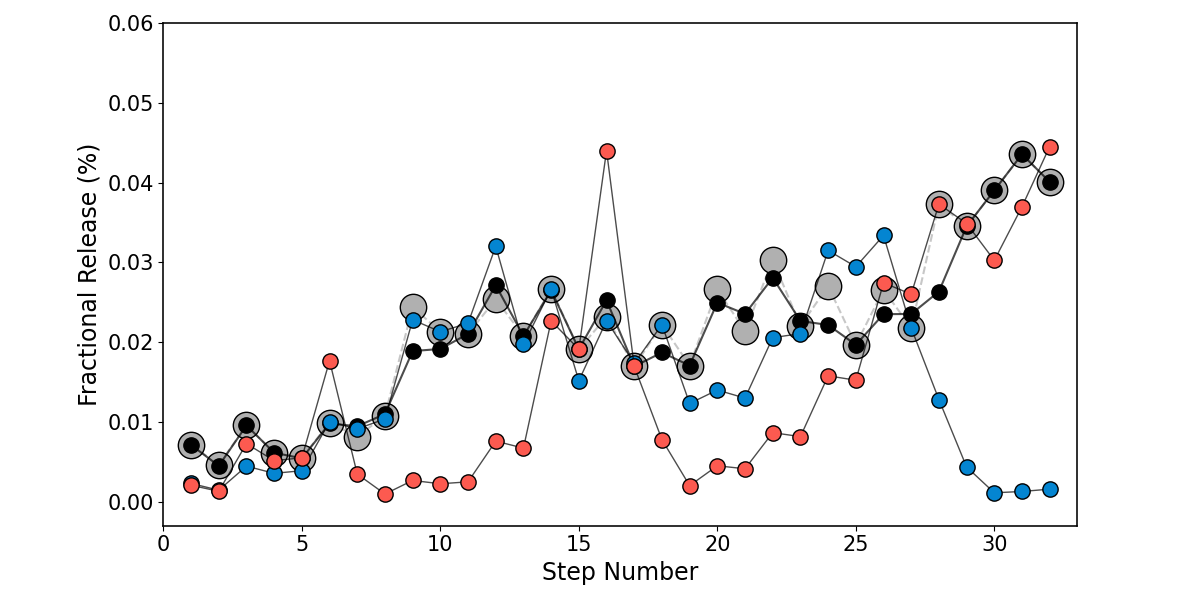
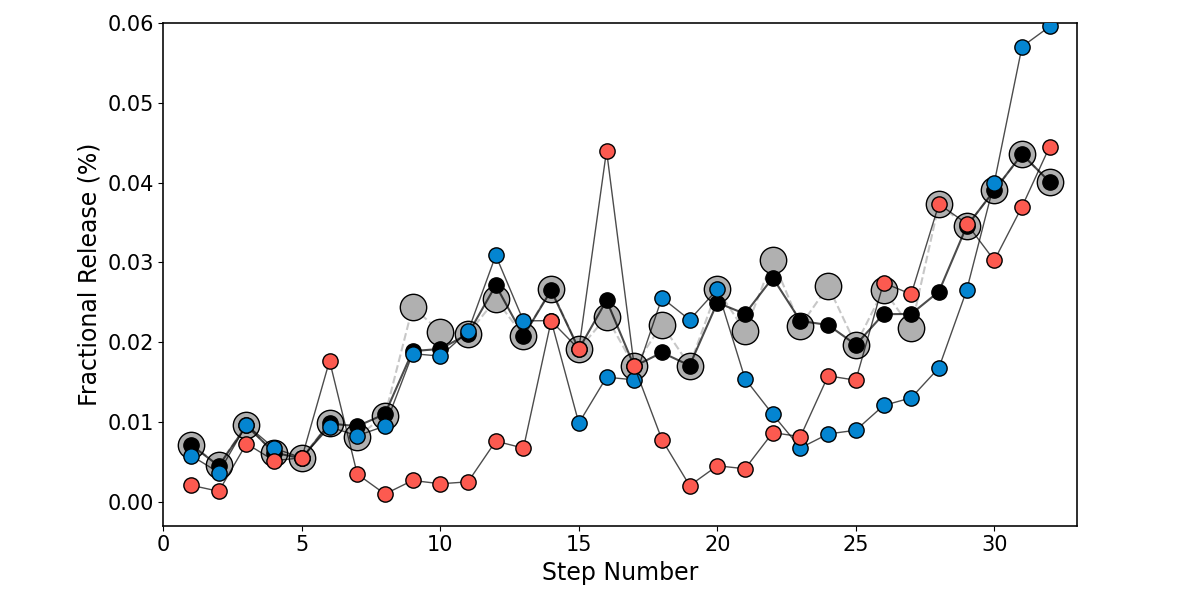
tests

diff --git a/make_schematic_fig.py b/make_schematic_fig.py
@@ -54,7 +54,7 @@ objective = DiffusionObjective(
 params1 = [335.567569632889	,39.146708523014,	30.172067488491	,29.664945364352	,21.426549193225	,17.402606427365	,15.964857224130,	6.284379579256,	-1.294279037535	,0.040535788100,	0.090277919616,	0.039701739596,	0.130310332905	,0.315146514821	,0.119667233118	,0.064814470901]
 
 #This is intermed fit, I think.
-params10_iters = [244.9856779808760,	22.8032856803673	,21.4948893645396	,20.1864422971505,	18.7486373095021,	14.0986036797046,	3.1066357687727,	2.2745049955014,	-4.5980373568966,	0.0944288367759,	0.0609622233296	,0.0140151677256,	0.0786130867542,	0.2315126516857	,0.2531792900349,	0.1031405096227]	
+params10_iters = [225.1686469231640,	24.7989167142270,	19.5891130124865	,15.5880401575800	,15.0932441718160	,8.9077738112200	,3.8468011524930	,3.3706607547994	,-4.0317513315335	,0.0159825761735,	0.1512192166273,	0.0453830804909,	0.0992670384928	,0.3203526038140,	0.0619149409874,	0.2898761939802]	
 
 
 #This is the best fit
